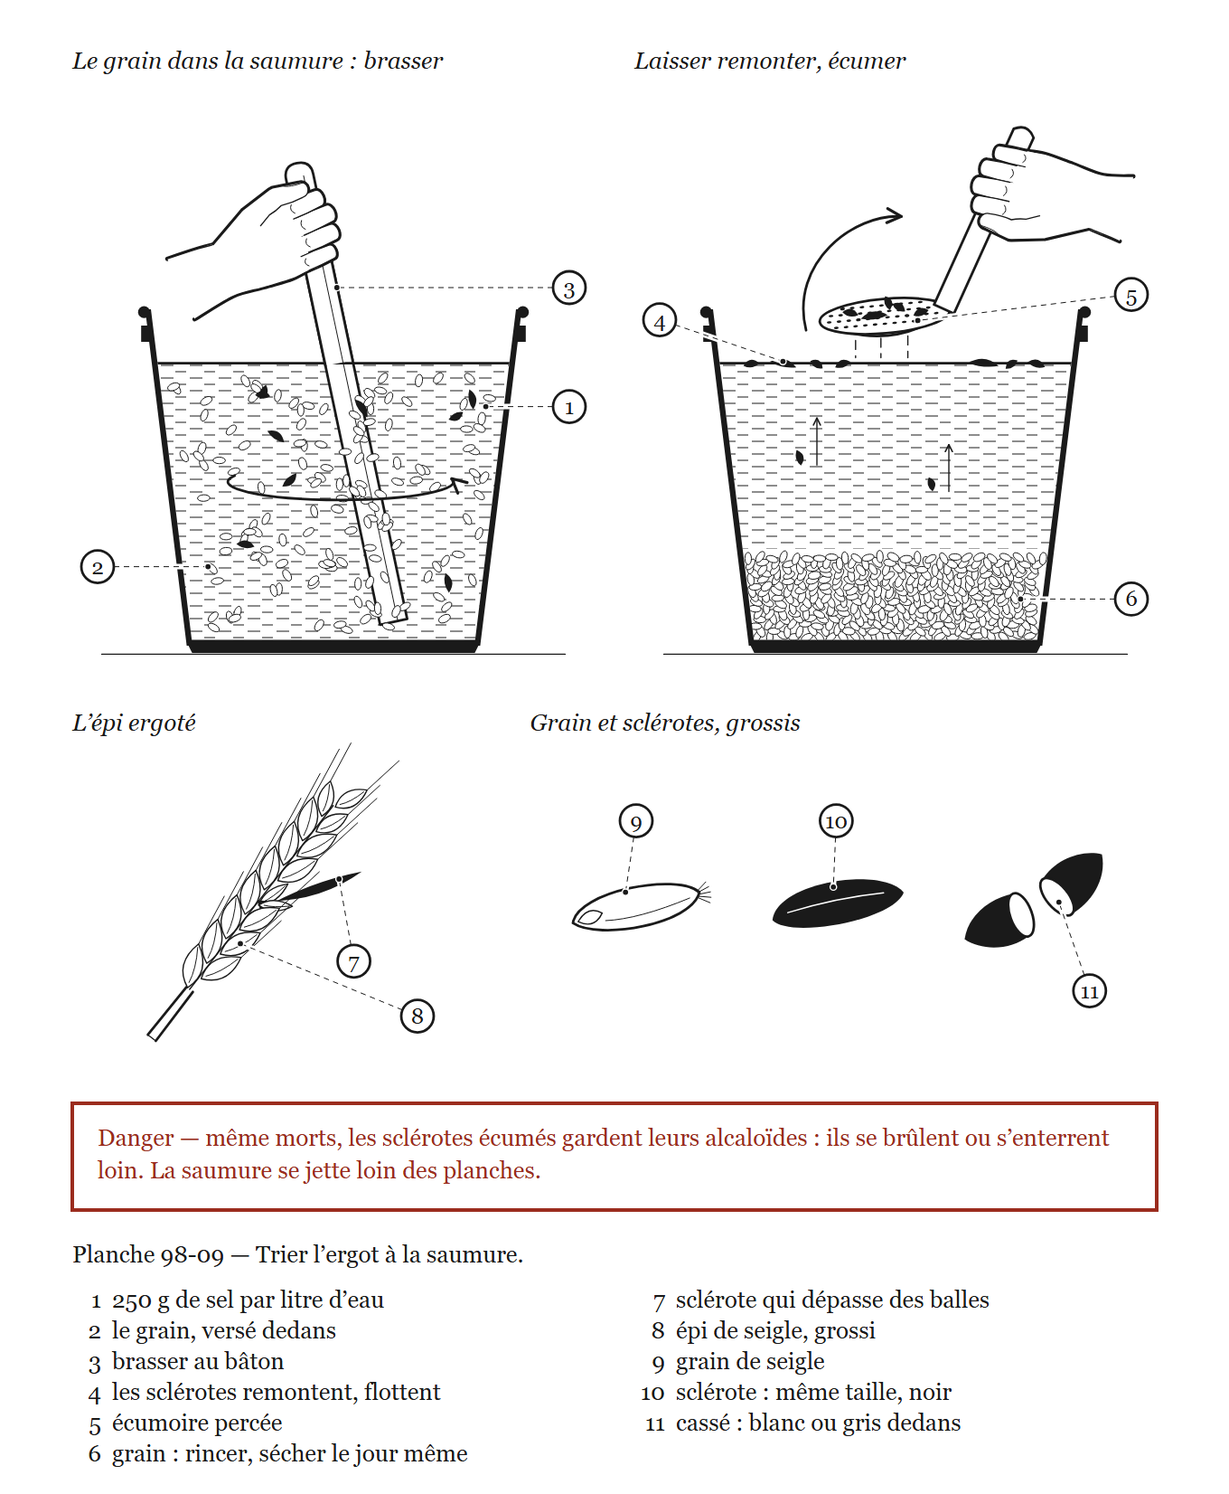
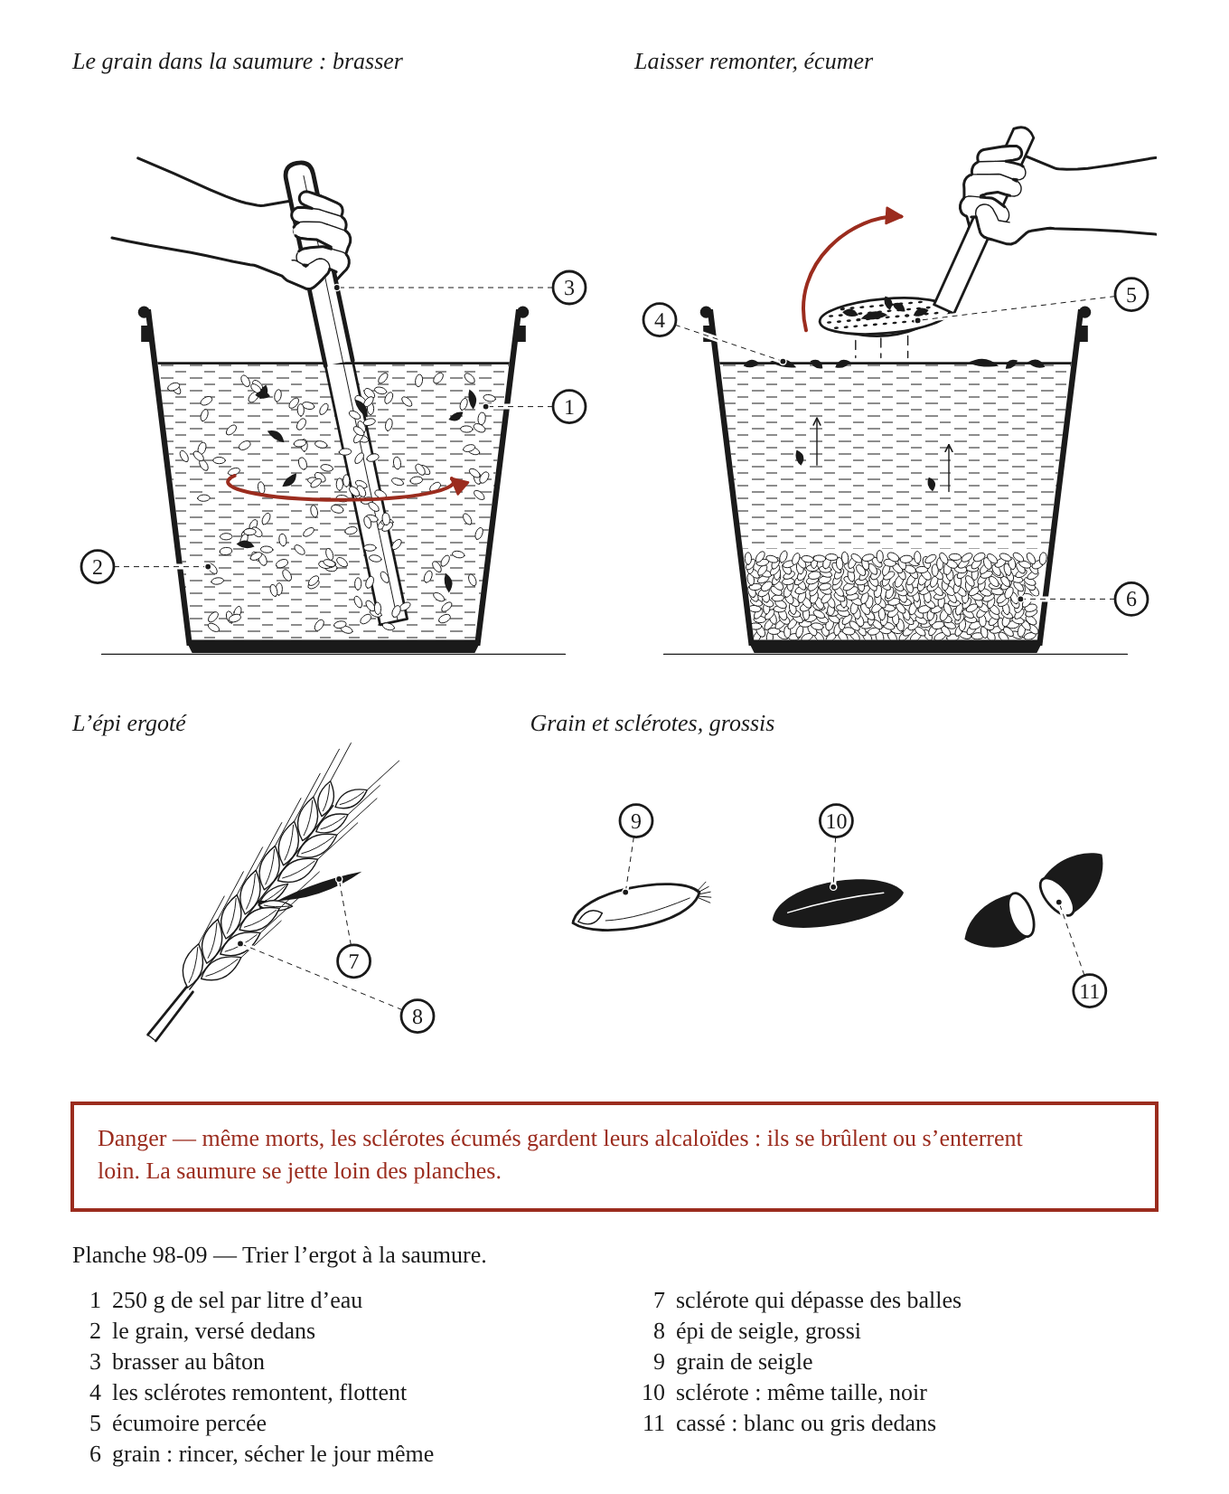
Mains simples, lot 2 paquet 2 : 29-06 29-07 30-01 30-40 34-01 34-02
Claude-Session: https://claude.ai/code/session_014xDY5FLxFXDJt3nYAYznSZ

diff --git a/images/planches-src/98-09.js b/images/planches-src/98-09.js
@@ -3,6 +3,9 @@
 // dedans, souvent de la taille du grain, parfois bien plus gros et qui dépasse des balles).
 // Le chapitre ne donne aucune dimension de chaudière, d'écumoire ni de bâton : aucune cote. Le
 // seul nombre est dans la légende (250 g de sel par litre d'eau).
+// 14 oct. : les deux poings sont des mains simples (mains/moteur.js, prise-manche vue côté paume) au lieu
+// des calques s11 grossis avec le manche ; la charte : le bâton au contour 2,4, brasser et lever
+// l'écumoire en flèches rouges du geste. Le sol et la chaudière ne changent pas.
 module.exports = (h) => {
   const A = h.a, F = h.formes;
   const r1 = v => Math.round(v * 10) / 10;
@@ -26,6 +29,27 @@ module.exports = (h) => {
     const c = Math.cos(ang * RAD), s = Math.sin(ang * RAD);
     const p1 = [x + rx * c, y + rx * s], p2 = [x - rx * c, y - rx * s];
     return h.path(`M${pt(p1)} A${rx} ${ry} ${r1(ang)} 1 0 ${pt(p2)} A${rx} ${ry} ${r1(ang)} 1 0 ${pt(p1)} Z`, at);
+  };
+
+  // ─── La main (main simple, mains/moteur.js) ────────────────────────────────────────────
+  // poser : l'angle qui met l'axe de la prise sur `axe` (degrés à l'écran) et l'avant-bras du côté de `vers`
+  const poser = (o, axe, vers) => {
+    const base = Object.assign({}, o, { angle: 0, avantbras: { longueur: 100 } }); delete base.objet;
+    const e0 = F.mainSimple(base); let best = null;
+    for (const k of [0, 180]) {
+      const a = axe - e0.prise.angle + k, m = F.mainSimple(Object.assign({}, base, { angle: a }));
+      const d = [m.coude[0] - m.poignet[0], m.coude[1] - m.poignet[1]], v = [vers[0] - m.poignet[0], vers[1] - m.poignet[1]];
+      const c = (d[0] * v[0] + d[1] * v[1]) / ((Math.hypot(d[0], d[1]) * Math.hypot(v[0], v[1])) || 1);
+      if (!best || c > best.c) best = { a, c };
+    }
+    return best.a;
+  };
+  // le poing (prise-manche vue côté paume, penché de 25°) fermé sur un manche d'axe e (vers le haut) :
+  // le manche entre d'un côté du poing et ressort de l'autre ; l'avant-bras court (140 mm) vers `vers`
+  const poing = (z, G, e, s, d, cote, vers, objet) => {
+    const o = { x: G[0], y: G[1], pose: 'prise-manche', vue: 'paume', cote, echelle: s, diametre: d, rotation: [-25, 0, 0] };
+    return F.mainSimple({ ...o, angle: poser(o, Math.atan2(e[1], e[0]) / RAD, vers), objet,
+      avantbras: { vers, bord: { x0: 0, y0: 0, x1: z.l, y1: z.h }, longueur: 140 } }).svg;
   };
 
   // ─── Les petites pièces ────────────────────────────────────────────────────────────────
@@ -96,7 +120,6 @@ module.exports = (h) => {
     // le bâton : du fond, un peu à droite du milieu, jusqu'au poing au-dessus du bord gauche
     const B = [cx + Wt * 0.16, yb - C.t - 10], G = [cx - Wt * 0.06, yt - 44];
     const u = [G[0] - B[0], G[1] - B[1]], lu = Math.hypot(u[0], u[1]), e = [u[0] / lu, u[1] / lu];
-    const ang = Math.atan2(e[0], -e[1]) / RAD;
     const d = 28 * s;                          // un bâton d'un pouce
     const n = [-e[1], e[0]];
     const haut = [G[0] + e[0] * 30, G[1] + e[1] * 30];
@@ -111,19 +134,15 @@ module.exports = (h) => {
     // le bâton au-dessus de la surface (le bout arrondi en haut)
     const S = [B[0] + e[0] * ((yS - B[1]) / e[1]), yS];
     const cap = [haut[0] + e[0] * d * 0.5, haut[1] + e[1] * d * 0.5];
-    o.push(h.path(`M${pt(bord(S, 1))} L${pt(bord(haut, 1))} Q${pt(bord(cap, 1))} ${pt(cap)} Q${pt(bord(cap, -1))} ${pt(bord(haut, -1))} L${pt(bord(S, -1))}`, bA));
-    o.push(h.ligne(bord(S, 0.3)[0], bord(S, 0.3)[1], bord(haut, 0.3)[0], bord(haut, 0.3)[1], A.fin));
+    const batonHaut = [h.path(`M${pt(bord(S, 1))} L${pt(bord(haut, 1))} Q${pt(bord(cap, 1))} ${pt(cap)} Q${pt(bord(cap, -1))} ${pt(bord(haut, -1))} L${pt(bord(S, -1))}`, blanc(A.contour)),
+      h.ligne(bord(S, 0.3)[0], bord(S, 0.3)[1], bord(haut, 0.3)[0], bord(haut, 0.3)[1], A.fin)].join('\n');
     o.push(...C.trait);
     // la saumure qui tourne autour du bâton
     const ym = yS + (yb - yS) * 0.42, rx = Wt * 0.3, ry = 10, xm = cx + 4;
     const P = a => [xm + rx * Math.cos(a * RAD), ym + ry * Math.sin(a * RAD)];
-    o.push(h.fleche(`M${pt(P(200))} A${rx} ${ry} 0 0 0 ${pt(P(90))} A${rx} ${ry} 0 0 0 ${pt(P(-10))}`, A.arete));
-    // la main
-    // modèle s11 (poing fermé, vu de la paume) : l'avant-bras à gauche, le pouce vers le bas du bâton ;
-    // le bâton (25 px dans le poing du modèle) passe dans le poing
-    const m = F.modele('s11', { x: G[0], y: G[1], ancre: [68, 42], angle: ang + 90, echelle: d / 25, masquer: [[0, 150, 140, 175]],
-      bras: { a: [21.8, 150], a0: [20.8, 135], b: [76.3, 150], b0: [76.2, 135], bord: z } });
-    o.push(m.toString());
+    o.push(h.geste(`M${pt(P(200))} A${rx} ${ry} 0 0 0 ${pt(P(90))} A${rx} ${ry} 0 0 0 ${pt(P(-10))}`));   // brasser : le geste (charte)
+    // la main droite sur le bâton, l'avant-bras vers la gauche, en haut ; le bâton passe dans le poing
+    o.push(poing(z, G, e.map(v => -v), s, 28, 'droite', [G[0] - 500, G[1] - 150], batonHaut));
     const yB = yt - 12, xB = S[0] + (yB - yS) * e[0] / e[1];
     const y2 = yS + (yb - yS) * 0.72;
     return {
@@ -187,15 +206,11 @@ module.exports = (h) => {
     const u = [G[0] - M0[0], G[1] - M0[1]], lu = Math.hypot(u[0], u[1]), e = [u[0] / lu, u[1] / lu], nn = [-e[1], e[0]];
     const dm = 22 * s, M1 = [G[0] + e[0] * 30, G[1] + e[1] * 30];
     const bm = (p, k) => [p[0] + nn[0] * dm / 2 * k, p[1] + nn[1] * dm / 2 * k];
-    o.push(h.path(`M${pt(bm(M0, 1))} L${pt(bm(M1, 1))} Q${pt([M1[0] + e[0] * 6, M1[1] + e[1] * 6])} ${pt(bm(M1, -1))} L${pt(bm(M0, -1))} Z`, bA));
-    // la main : pouce vers l'écumoire, l'avant-bras qui part vers la droite
-    const ang = Math.atan2(-e[0], e[1]) / RAD;
-    // modèle s11 en miroir : l'avant-bras à droite, le pouce vers l'écumoire ; le manche passe dans le poing
-    const m = F.modele('s11', { x: G[0], y: G[1], ancre: [68, 42], angle: ang + 90, miroir: true, echelle: dm / 25, masquer: [[0, 150, 140, 175]],
-      bras: { a: [21.8, 150], a0: [20.8, 135], b: [76.3, 150], b0: [76.2, 135], bord: z } });
-    o.push(m.toString());
-    // le geste : lever hors de la chaudière
-    o.push(h.fleche(`M${pt(E(-ex - 8, 4))} C${pt(E(-ex - 14, -34))} ${pt(E(-12, -58))} ${pt(E(14, -54))}`, A.arete));
+    const manche = h.path(`M${pt(bm(M0, 1))} L${pt(bm(M1, 1))} Q${pt([M1[0] + e[0] * 6, M1[1] + e[1] * 6])} ${pt(bm(M1, -1))} L${pt(bm(M0, -1))} Z`, bA);
+    // la main gauche sur le manche, l'avant-bras qui part vers la droite ; le manche passe dans le poing
+    o.push(poing(z, G, e, s, 22, 'gauche', [G[0] + 500, G[1] - 20], manche));
+    // le geste : lever hors de la chaudière (charte : le rouge)
+    o.push(h.geste(`M${pt(E(-ex - 8, 4))} C${pt(E(-ex - 14, -34))} ${pt(E(-12, -58))} ${pt(E(14, -54))}`));
     const yL = yg + (yb - yg) * 0.5;
     return {
       svg: o.join('\n'),

diff --git a/images/planches-src/34-02.js b/images/planches-src/34-02.js
@@ -11,8 +11,9 @@
 // La tête vue de dos (le haut relevé en chignon, le bas en mèches, la mèche de travail au milieu),
 // puis la racine de la même mèche en gros plan de côté, le peigne un peu de trois quarts pour qu’
 // on voie ses dents. La loupe grossit la lente plus que les doigts, sinon elle ne se verrait pas.
-// Mains simples et charte (14 octobre) : les deux bouts de doigts dessinés à la main deviennent une main simple
-// entière (pince-pointe de profil) dans la loupe. La tête vue de dos est gardée telle quelle. Rouge : les quatre
+// Mains simples et charte (14 octobre) : les deux bouts de doigts dessinés à la main sortent de la loupe, et aucune
+// pince de la bibliothèque ne s'y lit ; la loupe garde le cheveu et la lente, le renvoi 7 dit la prise. La tête vue
+// de dos est gardée telle quelle. Rouge : les quatre
 // gestes (tirer le peigne, deux fois ; le tremper ; glisser la lente).
 module.exports = (h) => {
   const A = h.a, F = h.formes, I = F._interne;
@@ -198,39 +199,17 @@ module.exports = (h) => {
     const s = Math.min(z.l, z.h) / (2 * R + 3);
     const cx = z.l / 2, cy = z.h / 2;
     const P = (x, y) => [cx + x * s, cy + y * s];
-    const T = p => P(p[0], p[1]);
     const o = [`<clipPath id="pl3402-loupe"><circle cx="${f1(cx)}" cy="${f1(cy)}" r="${f1(R * s)}"/></clipPath>`, '<g clip-path="url(#pl3402-loupe)">'];
     // le cuir chevelu et d'autres cheveux
     const cuir = [[-26.8, -40], [-26.2, -18], [-26, 0], [-26.2, 18], [-26.8, 40]];
     o.push(h.path(courbe(P, cuir), A.arete));
     // le cheveu pincé
     o.push(h.path(courbe(P, [[-26, 0.45], [-14, 0.55], [4, 0.2], [24, 0.8], [40, 0.4]]), A.detail));
-    // la main droite qui pince (main simple, pince-pointe de profil côté pouce : le bout du pouce contre le bout de
-    // l'index), entière dans la loupe : à la taille des anciens bouts de doigts, le « O » de la pince remplissait la
-    // loupe et ne se lisait plus. Le moteur ne dessine pas d'ongle : le bord libre de chaque ongle s'ajoute au bout du
-    // doigt, côté dos ; la lente, grossie plus que la main, se peint par-dessus les deux bouts
-    const C0 = P(-18.6, -1.1);
-    const m = F.mainSimple({ x: C0[0], y: C0[1], pose: 'pince-pointe', vue: 'pouce', cote: 'droite', diametre: 1.2, echelle: 0.3 * s, angle: 210,
-      avantbras: { longueur: 60 } });
-    o.push(m.svg);
-    const Ar = m.articulations, nrm = v => { const l = Math.hypot(v[0], v[1]) || 1; return [v[0] / l, v[1] / l]; };
-    const ctrO = [0, 1].map(i => (Ar['index.ipp'][i] + Ar['index.ipd'][i] + Ar['pouce.ip'][i] + Ar['pouce.mcp'][i]) / 4);
-    const ongle = (centre, joint, tip) => {
-      const u = nrm([centre[0] - joint[0], centre[1] - joint[1]]), r = Math.hypot(tip[0] - centre[0], tip[1] - centre[1]), e = 2 * r / 0.96;
-      let nd = [-u[1], u[0]];
-      if ((centre[0] - ctrO[0]) * nd[0] + (centre[1] - ctrO[1]) * nd[1] < 0) nd = [-nd[0], -nd[1]];
-      const wd = e * 0.44, wv = e * 0.52, w = wd + wv, at = (p, d, l) => [p[0] + d[0] * l, p[1] + d[1] * l];
-      const Ap = at(centre, nd, wd), Bp = at(centre, nd, -wv * 0.2), c1 = at(Ap, u, 0.74 * w), c2 = at(Bp, u, 0.62 * w);
-      const cub = t => { const q = 1 - t; return [0, 1].map(i => q * q * q * Ap[i] + 3 * q * q * t * c1[i] + 3 * q * t * t * c2[i] + t * t * t * Bp[i]); };
-      const Q = at(centre, u, 0.2 * r), dedans = [], dehors = [];
-      for (let k = 0; k <= 10; k++) {
-        const t = 0.04 + k * 0.06, p = cub(t), d = nrm([p[0] - Q[0], p[1] - Q[1]]);
-        dedans.push(p); dehors.push(at(p, d, 0.12 * r * Math.sin(Math.PI * k / 10) ** 0.6));
-      }
-      return h.path('M' + [...dehors, ...dedans.reverse()].map(p => p.map(f1).join(' ')).join(' L') + ' Z', blanc(0.7));
-    };
-    o.push(ongle(Ar['index.bout'], Ar['index.ipd'], m.doigts.index), ongle(Ar['pouce.bout'], Ar['pouce.ip'], m.doigts.pouce));
-    // la lente, par-dessus le bout des doigts qui la pincent : un œuf collé au cheveu, la base vers le cuir chevelu, le couvercle au bout
+    // deux cheveux voisins, sans lente
+    o.push(h.path(courbe(P, [[-26.4, -11], [-12, -11.6], [6, -12.4], [24, -12], [40, -13]]), A.detail));
+    o.push(h.path(courbe(P, [[-26.3, 11.5], [-12, 12.2], [6, 12.6], [24, 13.4], [40, 13]]), A.detail));
+    // la lente : un œuf collé au cheveu, la base vers le cuir chevelu, le couvercle au bout. Pas de main : à cette
+    // échelle, aucune pince de la bibliothèque ne se lit (le « O » des doigts fait une boîte) ; le renvoi 7 dit la prise.
     const LC = [-19.6, -1.35], LR = [4.0, 1.8], LA = -7 * RAD;
     const G = (lx, ly) => [LC[0] + lx * Math.cos(LA) - ly * Math.sin(LA), LC[1] + lx * Math.sin(LA) + ly * Math.cos(LA)];
     const oeuf = [];
@@ -239,7 +218,7 @@ module.exports = (h) => {
     o.push(h.path(courbe(P, [G(2.9, -1.35), G(2.4, 0), G(2.9, 1.35)]), A.detail));
     o.push(h.path(courbe(P, [G(-3.0, 1.4), G(-4.4, 1.75), [-25, 0.45]]), A.detail));
     // le geste : on glisse vers le bout du cheveu
-    o.push(h.geste(`M${P(-5, -4).map(f1).join(' ')} L${P(17, -4).map(f1).join(' ')}`));
+    o.push(h.geste(`M${P(-13, -4.5).map(f1).join(' ')} L${P(15, -4.5).map(f1).join(' ')}`));
     o.push('</g>');
     o.push(h.cercle(cx, cy, R * s, A.contour));
     return o.join('\n');
@@ -287,7 +266,7 @@ module.exports = (h) => {
         dessin: loupe,
         renvois: z => [
           { n: 6, rond: pl(z, -32.5, 21), cible: pl(z, -22, -1.1), texte: 'lente vivante, près du cuir chevelu' },
-          { n: 7, rond: pl(z, 32.5, -21), cible: pl(z, 9, -4), texte: 'glissée entre deux ongles jusqu’au bout' },
+          { n: 7, rond: pl(z, 32.5, -21), cible: pl(z, 9, -4.5), texte: 'glissée entre deux ongles jusqu’au bout' },
         ],
       },
     },

diff --git a/images/planches-src/98-05.js b/images/planches-src/98-05.js
@@ -5,8 +5,9 @@
 // croisés comblent les bandes claires qu'un seul passage laisse toujours.
 // Aucune cote : le chapitre ne donne ni la largeur des bandes ni la taille du carré.
 // 13 oct. : le semeur de profil est le corps simple (pose « semer ») ; vu de dessus, il n'est plus que
-// ses empreintes (un corps ne se montre plus que de profil). Le médaillon des mains (gros plan calqué)
-// attend la nouvelle bibliothèque de mains. Rouge : l'arc du bras (première moitié), le niveau.
+// ses empreintes (un corps ne se montre plus que de profil). Rouge : l'arc du bras (première moitié), le niveau.
+// 14 oct. : le médaillon des mains passe aux mains simples (mains/moteur.js) : le poing plein (poing, vu côté
+// paume) au lieu du calque s05, la main ouverte (plat, de profil) au lieu du calque s10-plat.
 module.exports = (h) => {
   const A = h.a, F = h.formes;
   const f = v => Math.round(v * 10) / 10;
@@ -138,25 +139,28 @@ module.exports = (h) => {
     // devant le tronc et devant le bras loin, derrière le bras proche.
     const p = F.corps({ x, y: y0, pose: 'semer', echelle: e, objetP: seau });
     const main = [p.mainP.x + 30 * e, p.mainP.y];
-    // le médaillon, grossi : la main pleine fermée sur le grain, puis la même qui s'ouvre
-    const mR = Math.min(50, z.l * 0.22), mx = z.l - mR - 4, my = mR + 4;
-    const rg = alea(9811), poing = [];
-    const rP = 17 * mR / 250;
-    for (let i = 0; i < 40 && poing.length < 9; i++) { const gx = (rg() - 0.5) * 2 * rP, gy = (rg() - 0.5) * 2 * rP;
-      if (Math.hypot(gx, gy) < rP - 1.4) poing.push(grain(mx + mR * 0.05 + gx, my - mR * 0.4 + gy, rg() * 180, 0.9)); }
-    const ouv = [];
-    for (let i = 0; i < 9; i++) { const t = rg(); ouv.push(grain(mx + mR * 0.22 + t * mR * 0.25 + rg() * 3, my + mR * 0.42 + t * mR * 0.38 + rg() * 3, 60 + rg() * 60, 1.1)); }
-    const med = [h.cercle(mx, my, mR, A.blanc), h.cercle(mx, my, mR, A.arete),
-      // modèle s05 (les doigts repliés sur ce qu'ils tiennent, le pouce dessus), en miroir :
-      // l'avant-bras à gauche, le creux du poing plein de grain (140 px du poignet aux jointures ≈ 110 mm)
-      F.modele('s05', { x: mx + mR * 0.12, y: my - mR * 0.4, ancre: [12, 30], miroir: true, echelle: 0.96 * mR / 250, masquer: [[222, 0, 240, 120]],
-        bras: { a: [222, 39.1], a0: [200, 38.1], b: [222, 104.3], b0: [200, 100.8], long: 0.12 * mR } }),
-      poing.join(''),
-      // modèle s10-plat retourné (la main à plat, paume en bas, les doigts vers la droite), penché
-      // de 22° : la main ouverte, le grain part du bout des doigts (214 px = 190 mm)
-      F.modele('s10-plat', { x: mx + mR * 0.2, y: my + mR * 0.4, ancre: [14, 47], angle: 180 + 22, echelle: 1.2 * 190 / 214 * mR / 250,
-        masquer: [[228, 0, 245, 125]], bras: { a: [228, 57.6], a0: [210, 58.4], b: [228, 110.8], b0: [210, 108.8], long: 0.12 * mR } }),
-      ouv.join('\n'),
+    // le médaillon, grossi : deux mains simples (mains/moteur.js), à une même échelle, coupées par le
+    // cercle. En haut, le poing vu côté paume (tourné de 35°), le pouce en bas : il est plein, le grain
+    // affleure entre le pouce et l'index. En bas, la même main ouverte à plat, penchée : le grain part
+    // du bout des doigts.
+    const mR = Math.min(50, z.l * 0.22), mx = z.l - mR - 4, my = mR + 4, eM = 0.3, rg = alea(9811);
+    const idC = 'med-9805', clip = `<clipPath id="${idC}"><circle cx="${f(mx)}" cy="${f(my)}" r="${f(mR - 1.2)}"/></clipPath>`;
+    const pPoing = [mx + mR * 0.1, my - mR * 0.45];
+    const mPoing = F.mainSimple({ x: pPoing[0], y: pPoing[1], pose: 'poing', vue: 'paume', cote: 'droite', echelle: eM, angle: 0, rotation: [0, 35, 0],
+      avantbras: { vers: [mx - 400, pPoing[1]], longueur: 140 } });
+    const pBout = [mx + mR * 0.45, my + mR * 0.34];
+    const mOuv = F.mainSimple({ x: pBout[0], y: pBout[1], ancre: 'bout', pose: 'plat', vue: 'pouce', cote: 'droite', echelle: eM, angle: 22,
+      rotation: [-25, 0, 0], avantbras: { vers: [mx - 400, pBout[1] - 30], longueur: 140 } });
+    // le grain qui affleure du poing, entre le pouce et l'index
+    const gP = [], pb = mPoing.articulations['pouce.bout'], im = mPoing.articulations['index.mcp'];
+    const c0 = [(pb[0] + im[0]) / 2 + 2, Math.max(pb[1], im[1]) + 2];
+    for (const [dx, dy, a] of [[-2.5, 0, 70], [0.5, 1.2, 100], [3, 0.2, 80], [-0.8, 3.4, 95], [1.6, 4.8, 85], [0.2, 7.5, 90]])
+      gP.push(grain(c0[0] + dx, c0[1] + dy, a, 0.95));
+    // le grain qui part du bout des doigts de la main ouverte, en filet qui s'élargit vers le bas
+    const ouv = [], bo = mOuv.bout;
+    for (let i = 0; i < 12; i++) { const t = (i + 0.5) / 12; ouv.push(grain(bo[0] - 1 + t * mR * 0.04 + (i % 3 - 1) * 5 * t, bo[1] + 4 + t * mR * 0.32 + (i % 2) * 1.5, 50 + rg() * 80, 1.1)); }
+    const med = [h.cercle(mx, my, mR, A.blanc), clip, `<g clip-path="url(#${idC})">`, mPoing.svg, gP.join(''), mOuv.svg, ouv.join('\n'), '</g>',
+      h.cercle(mx, my, mR, A.arete),
       h.fleche(`M ${f(mx + mR * 0.55)} ${f(my - mR * 0.5)} Q ${f(mx + mR * 0.78)} ${f(my - mR * 0.2)} ${f(mx + mR * 0.6)} ${f(my + mR * 0.12)}`, A.detail)].join('\n');
     // le grain qui quitte la main ouverte, en éventail, et tombe devant
     const r = alea(9805), vol = [];

diff --git a/images/planches-src/98-10.js b/images/planches-src/98-10.js
@@ -5,6 +5,9 @@
 // Le chapitre ne donne ni la taille de la claie, ni la hauteur, ni la distance au poêle : aucune
 // cote. Le montage (perches, lattes clouées, brides aux solives) est le plus simple qui tienne ;
 // la moustiquaire tendue sur des lattes vient du ch. 100 §9, auquel le chapitre renvoie.
+// 14 oct. : la main qui brasse le grain est une main simple (mains/moteur.js, plat vue du pouce) au lieu
+// du calque s10-plat ; son va-et-vient (le geste) passe en rouge. La charte : les perches de la claie
+// au contour 2,4, le côté des lattes à l'ombre.
 module.exports = (h) => {
   const A = h.a, F = h.formes;
   const r1 = v => Math.round(v * 10) / 10;
@@ -22,7 +25,6 @@ module.exports = (h) => {
     const p1 = [x + rx * c, y + rx * sn], p2 = [x - rx * c, y - rx * sn];
     return h.path(`M${pt(p1)} A${rx} ${ry} ${r1(ang)} 1 0 ${pt(p2)} A${rx} ${ry} ${r1(ang)} 1 0 ${pt(p1)} Z`, at);
   };
-  const double = (d, at = A.arete) => `<path d="${d}" ${at} marker-start="url(#fl)" marker-end="url(#fl)"/>`;
   let nClip = 0;
   const decoupe = (pts, contenu) => {
     const id = `k9810-${++nClip}`;
@@ -116,7 +118,7 @@ module.exports = (h) => {
   };
   const perche = (y, seed) => {
     const q = [];
-    q.push(poly(enveloppe([...capot(0, y), ...capot(L, y)]), bA));
+    q.push(poly(enveloppe([...capot(0, y), ...capot(L, y)]), bC));     // la charte : la claie pèse
     // l'écorce : quelques traits fins le long
     const rr = alea(seed);
     for (let i = 0; i < 5; i++) {
@@ -191,7 +193,8 @@ module.exports = (h) => {
       const x2 = xl + LAL, y0 = -45, y1 = W + 45, za = Zs, zb = Zs + LAE;
       o.push(poly([P(xl, y1, zb), P(x2, y1, zb), P(x2, y0, zb), P(xl, y0, zb)], bA));           // dessus
       o.push(poly([P(xl, y0, za), P(x2, y0, za), P(x2, y0, zb), P(xl, y0, zb)], A.hachure('bois', 'arete'))); // bout
-      o.push(poly([P(x2, y0, za), P(x2, y1, za), P(x2, y1, zb), P(x2, y0, zb)], bA));           // côté
+      const cote = [P(x2, y0, za), P(x2, y1, za), P(x2, y1, zb), P(x2, y0, zb)];
+      o.push(poly(cote, A.ombre), poly(cote, A.arete));                                             // côté, à l'ombre
       for (const yy of [0, W]) o.push(h.cercle(...P(xl + LAL / 2, yy, zb), 1.5, A.plein));
     }
 
@@ -279,18 +282,19 @@ module.exports = (h) => {
     // la cassure : la claie continue à droite
     const xc = xFin, yc = yFin;
     o.push(h.chemin([[xc, yc - EP - 8], [xc + 3, yc - EP + 2], [xc - 3, yc - 2], [xc, yc + 6]], A.detail));
-    // la main à plat sur le grain, venue par-dessus la perche
-    // modèle s10-plat (la main à plat de côté) retourné : la paume posée sur le grain, le pouce
-    // dessous, les doigts vers l'arrière de la claie, l'avant-bras qui remonte à gauche ; tourné de
-    // 10,3° de plus pour que le bout des doigts et le dessous du pouce touchent tous deux le grain
-    const tg = Math.atan2(surf(xm + 45) - surf(xm + 35), 10) * 180 / Math.PI;
-    const m = F.modele('s10-plat', { x: xm + 40, y: surf(xm + 40) - 0.5, ancre: [100, 31], angle: 180 + 10.3 + tg, echelle: 0.89 * k,
-      masquer: [[228, 0, 245, 125]], bras: { a: [228, 57.6], a0: [210, 58.4], b: [228, 110.8], b0: [210, 108.8], bord: z } });
-    o.push(m);
+    // la main à plat sur le grain, venue par-dessus la perche (main simple, plat vue du pouce, un peu vue
+    // d'en haut, comme 50-40) : la paume posée sur le grain, le pouce dessous, les doigts vers l'arrière
+    // de la claie, l'avant-bras qui remonte à gauche et sort de la vue
+    const xt = xm + 75, tg = Math.atan2(surf(xt + 5) - surf(xt - 5), 10) * 180 / Math.PI;
+    const oM = { x: xt, ancre: 'bout', pose: 'plat', vue: 'pouce', cote: 'gauche', echelle: 0.75, angle: tg, rotation: [-25, 0, 0],
+      avantbras: { vers: [xm - 300, surf(xm) - 220], bord: { x0: 0, y0: 0, x1: z.l, y1: z.h }, longueur: 130 } };
+    const m0 = F.mainSimple({ ...oM, y: surf(xt) });
+    const dy = surf(m0.pouce[0]) - m0.pouce[1] - 0.8;                  // le pouce posé sur le grain
+    o.push(F.mainSimple({ ...oM, y: surf(xt) + dy }).svg);
     // brasser : aller-retour à plat
     // (au-dessus de la main calquée, dont l'avant-bras remonte à gauche)
     const yb = surf(xm) - 70;
-    o.push(double(`M${pt([xm + 8, yb])} Q${pt([xm + 63, yb - 10])} ${pt([xm + 118, yb])}`, A.arete));
+    o.push(h.geste(`M${pt([xm + 8, yb])} Q${pt([xm + 63, yb - 10])} ${pt([xm + 118, yb])}`, { double: true }));   // le geste (charte)
     return o.join('\n');
   };
 
